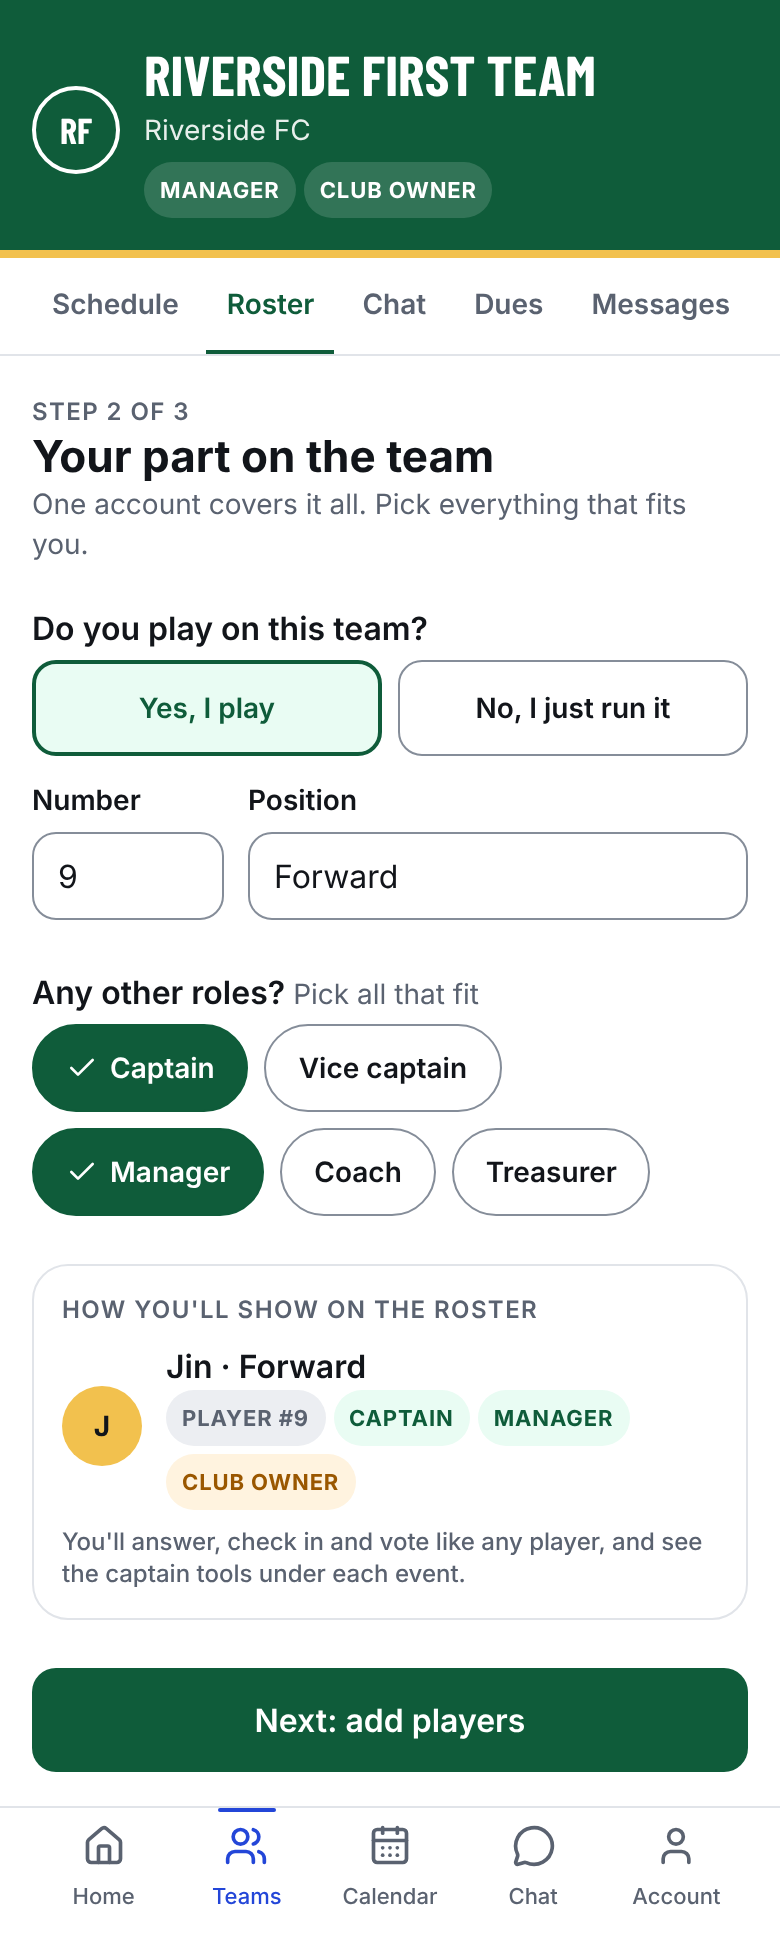
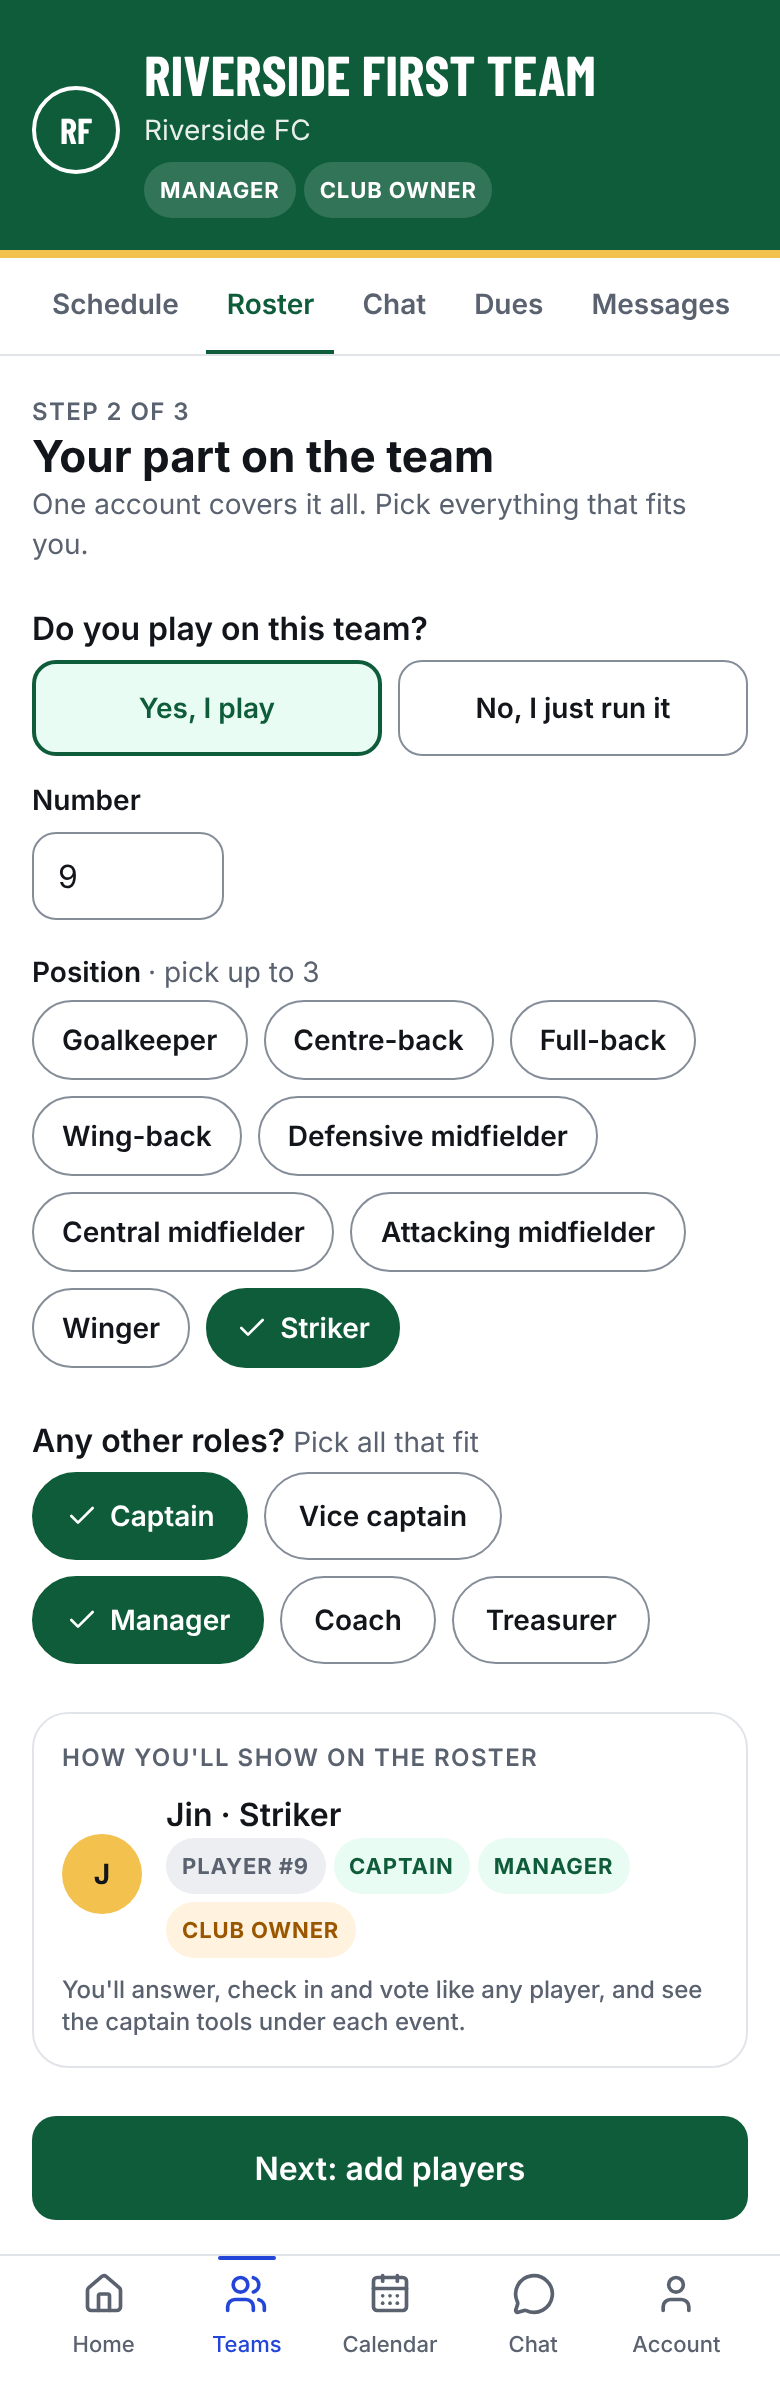
Players save their own number and positions; positions from a list; say why check-in is off
- Positions: pick up to 3 from your team's sport (soccer, football, basketball, hockey, cricket, baseball, volleyball, rugby, lacrosse) as chips, on "Your part on the team" and on a member's page. Other sports keep a text box; older typed positions stay as their own chip.
- Live save: a player without the roster permission could not save their number or position (RLS blocked it and the write failed silently). New set_my_player_details() lets anyone on the team change only is_player, jersey and position on their own row; roles still need manage_permissions.
- Check-in: when it's on but the event has no pinned place, players see why and that the captain can mark them; staff see a warning with a link to add or pin the place.
- Tests: positions and check-in messages (browser); existing tests pick a position chip.

Claude-Session: https://claude.ai/code/session_01ErGsB6M5fXQxgMj1xA9MPR

Changed region(s): [[0.0, 0.0, 1.0, 0.9897], [0.6154, 0.3402, 0.8615, 0.3711], [0.6462, 0.5876, 0.8, 0.6186]]

diff --git a/src/lib/data/live/accounts.ts b/src/lib/data/live/accounts.ts
@@ -105,3 +105,63 @@ export async function deleteAccount(confirmEmail: string): Promise<ActionResult>
   await sb.auth.signOut().catch(() => {});
   return { ok: true, data: undefined };
 }
+
+// ---------------------------------------------------------------------------
+// "Your part on the team" (Supabase). A player may change their own number, positions
+// and whether they play through set_my_player_details(); only someone who manages
+// permissions can change roles, which goes through the shared logic.
+// ---------------------------------------------------------------------------
+
+export async function setMyPart(
+  teamId: string,
+  input: { isPlayer: boolean; jersey?: string; position?: string; roles: string[] },
+): Promise<ActionResult<import("../types").RosterMember>> {
+  const { onLive } = await import("./run");
+  const shared = await import("../fake");
+  const { TEAM_ROLES } = await import("../types");
+  const { sb, user } = await signedInUser();
+  const { data: row } = await sb
+    .from("roster_members")
+    .select("id, roles, status")
+    .eq("team_id", teamId)
+    .eq("user_id", user.id)
+    .in("status", ["active", "inactive"])
+    .maybeSingle();
+  if (!row) return { ok: false, error: "You're not on this team." };
+  const roles = TEAM_ROLES.filter((r) => input.roles.includes(r));
+  const current = TEAM_ROLES.filter((r) => (row.roles ?? []).includes(r));
+  if (roles.join() !== current.join()) return onLive(shared.setMyPart)(teamId, input);
+
+  const jersey = input.isPlayer ? input.jersey?.trim() || null : null;
+  const position = input.isPlayer ? input.position?.trim() || null : null;
+  if (!input.isPlayer && !roles.length) return { ok: false, error: "Check the highlighted fields.", fieldErrors: { roles: "Pick at least one: you play, or a role on the team." } };
+  if (jersey && !/^\d{1,3}$/.test(jersey)) return { ok: false, error: "Check the highlighted fields.", fieldErrors: { jersey: "Use up to 3 digits." } };
+  if (jersey) {
+    const { data: same } = await sb.from("roster_members").select("id").eq("team_id", teamId).eq("jersey", jersey).eq("is_player", true).neq("status", "removed").neq("id", row.id).limit(1);
+    if (same?.length) return { ok: false, error: "Check the highlighted fields.", fieldErrors: { jersey: `Someone already wears ${jersey}.` } };
+  }
+  if (position && position.length > 80) return { ok: false, error: "Pick fewer positions." };
+  const { error } = await sb.rpc("set_my_player_details", { t: teamId, p_is_player: input.isPlayer, p_jersey: jersey ?? "", p_position: position ?? "" });
+  if (error) {
+    console.error("[setMyPart]", error.message);
+    return { ok: false, error: "Couldn't save that. Try again in a minute." };
+  }
+  const { data: r } = await sb.from("roster_members").select("*").eq("id", row.id).single();
+  if (!r) return { ok: false, error: "Saved, but couldn't read it back. Refresh the page." };
+  return {
+    ok: true,
+    data: {
+      id: r.id,
+      teamId: r.team_id,
+      userId: r.user_id,
+      invitedEmail: r.invited_email,
+      invitedName: null,
+      isPlayer: r.is_player,
+      roles: r.roles as import("../types").RosterMember["roles"],
+      jersey: r.jersey,
+      position: r.position,
+      permissions: r.permissions as import("../types").RosterMember["permissions"],
+      status: r.status as import("../types").RosterMember["status"],
+    },
+  };
+}

diff --git a/src/components/position-picker.tsx b/src/components/position-picker.tsx
@@ -1,0 +1,78 @@
+"use client";
+
+import { useState } from "react";
+import { Check } from "lucide-react";
+import { Input } from "@/components/ui";
+import { MAX_POSITIONS, joinPositions, positionsFor, splitPositions } from "@/lib/positions";
+
+/**
+ * Pick up to three positions from the team's sport, as tap-to-toggle chips. Anything saved
+ * earlier that isn't on the list (typed before the list existed) stays as its own chip.
+ * Sports without a list get a text box. Submits one hidden "position" field.
+ */
+export function PositionPicker({ sport, initial, onChange }: { sport: string; initial: string; onChange?: (value: string) => void }) {
+  const list = positionsFor(sport);
+  const [picked, setPicked] = useState<string[]>(splitPositions(initial));
+  const [text, setText] = useState(initial);
+
+  if (!list.length)
+    return (
+      <div className="grid gap-1.5">
+        <label htmlFor="position" className="text-sm font-semibold">
+          Position
+        </label>
+        <Input
+          id="position"
+          name="position"
+          maxLength={60}
+          value={text}
+          onChange={(e) => {
+            setText(e.target.value);
+            onChange?.(e.target.value);
+          }}
+          placeholder="Optional"
+        />
+      </div>
+    );
+
+  const extras = picked.filter((p) => !list.includes(p));
+  const options = [...list, ...extras];
+  const full = picked.length >= MAX_POSITIONS;
+  const toggle = (p: string) => {
+    const next = picked.includes(p) ? picked.filter((x) => x !== p) : full ? picked : [...picked, p];
+    // Keep them in the list's order so "Goalkeeper, Striker" reads the same for everyone.
+    const ordered = options.filter((o) => next.includes(o));
+    setPicked(ordered);
+    onChange?.(joinPositions(ordered));
+  };
+
+  return (
+    <fieldset className="grid gap-2">
+      <legend className="mb-1 text-sm font-semibold">
+        Position <span className="font-normal text-muted">· pick up to {MAX_POSITIONS}</span>
+      </legend>
+      <input type="hidden" name="position" value={joinPositions(picked)} />
+      <div className="flex flex-wrap gap-2">
+        {options.map((p) => {
+          const on = picked.includes(p);
+          return (
+            <button
+              key={p}
+              type="button"
+              aria-pressed={on}
+              disabled={!on && full}
+              onClick={() => toggle(p)}
+              className={`inline-flex min-h-10 items-center gap-1.5 rounded-pill border px-3.5 text-sm font-semibold disabled:opacity-40 focus-visible:outline-2 focus-visible:outline-offset-2 focus-visible:outline-focus ${
+                on ? "border-team bg-team text-on-team" : "border-border-input bg-bg"
+              }`}
+            >
+              {on && <Check aria-hidden className="size-4" />}
+              {p}
+            </button>
+          );
+        })}
+      </div>
+      {full && <p className="text-xs text-muted">That&apos;s {MAX_POSITIONS}. Tap one to swap it.</p>}
+    </fieldset>
+  );
+}

diff --git a/src/app/(app)/t/[teamId]/you/your-part-form.tsx b/src/app/(app)/t/[teamId]/you/your-part-form.tsx
@@ -5,6 +5,7 @@ import { Check } from "lucide-react";
 import { setMyPartAction, type FormState } from "@/app/actions";
 import { Avatar, Field, Input, buttonClass } from "@/components/ui";
 import { HatBadges } from "@/components/hats";
+import { PositionPicker } from "@/components/position-picker";
 import { TEAM_ROLES, ROLE_LABEL, hatLabels, type ClubRole, type TeamRole } from "@/lib/data/types";
 
 export function YourPartForm({
@@ -14,6 +15,7 @@ export function YourPartForm({
   name,
   clubRole,
   canChangeRoles,
+  sport,
   initial,
 }: {
   teamId: string;
@@ -22,6 +24,7 @@ export function YourPartForm({
   name: string;
   clubRole: ClubRole | null;
   canChangeRoles: boolean;
+  sport: string;
   initial: { isPlayer: boolean; jersey: string; position: string; roles: TeamRole[] };
 }) {
   const [state, action, pending] = useActionState<FormState, FormData>(setMyPartAction.bind(null, teamId, next), null);
@@ -58,13 +61,13 @@ export function YourPartForm({
           ))}
         </div>
         {plays && (
-          <div className="grid grid-cols-[96px_minmax(0,1fr)] gap-3">
-            <Field id="jersey" label="Number" error={fe.jersey}>
-              <Input id="jersey" name="jersey" inputMode="numeric" maxLength={3} value={jersey} onChange={(e) => setJersey(e.target.value)} error={fe.jersey} />
-            </Field>
-            <Field id="position" label="Position">
-              <Input id="position" name="position" maxLength={30} value={position} onChange={(e) => setPosition(e.target.value)} placeholder="Optional" />
-            </Field>
+          <div className="grid gap-4">
+            <div className="max-w-24">
+              <Field id="jersey" label="Number" error={fe.jersey}>
+                <Input id="jersey" name="jersey" inputMode="numeric" maxLength={3} value={jersey} onChange={(e) => setJersey(e.target.value)} error={fe.jersey} />
+              </Field>
+            </div>
+            <PositionPicker sport={sport} initial={initial.position} onChange={setPosition} />
           </div>
         )}
       </fieldset>

diff --git a/src/lib/positions.ts b/src/lib/positions.ts
@@ -1,0 +1,32 @@
+/*
+ * Playing positions by sport, for the position picker. A player can pick up to three;
+ * they're stored together in roster_members.position as "Goalkeeper, Centre-back".
+ * Sports not listed here (or "Other") get a free-text box instead.
+ */
+
+export const MAX_POSITIONS = 3;
+
+const LISTS: Record<string, string[]> = {
+  soccer: ["Goalkeeper", "Centre-back", "Full-back", "Wing-back", "Defensive midfielder", "Central midfielder", "Attacking midfielder", "Winger", "Striker"],
+  football: ["Quarterback", "Running back", "Wide receiver", "Tight end", "Offensive line", "Defensive line", "Linebacker", "Cornerback", "Safety", "Kicker", "Punter"],
+  basketball: ["Point guard", "Shooting guard", "Small forward", "Power forward", "Centre"],
+  hockey: ["Goalie", "Defence", "Centre", "Left wing", "Right wing"],
+  cricket: ["Batter", "Opening batter", "Wicketkeeper", "Fast bowler", "Spin bowler", "All-rounder"],
+  baseball: ["Pitcher", "Catcher", "First base", "Second base", "Third base", "Shortstop", "Left field", "Centre field", "Right field", "Designated hitter"],
+  volleyball: ["Setter", "Outside hitter", "Opposite", "Middle blocker", "Libero", "Defensive specialist"],
+  rugby: ["Prop", "Hooker", "Lock", "Flanker", "Number 8", "Scrum-half", "Fly-half", "Centre", "Wing", "Fullback"],
+  lacrosse: ["Goalie", "Defence", "Midfield", "Attack", "Face-off"],
+};
+
+export function positionsFor(sport: string | null | undefined): string[] {
+  return LISTS[(sport ?? "").trim().toLowerCase()] ?? [];
+}
+
+export function splitPositions(value: string | null | undefined): string[] {
+  return (value ?? "")
+    .split(/\s*[,/]\s*/)
+    .map((s) => s.trim())
+    .filter(Boolean);
+}
+
+export const joinPositions = (list: string[]) => list.join(", ");

diff --git a/src/app/(app)/t/[teamId]/roster/[memberId]/member-form.tsx b/src/app/(app)/t/[teamId]/roster/[memberId]/member-form.tsx
@@ -1,5 +1,6 @@
 "use client";
 
+import { PositionPicker } from "@/components/position-picker";
 import { useActionState, useState } from "react";
 import { Check } from "lucide-react";
 import { updateMemberAction, type FormState } from "@/app/actions";
@@ -18,11 +19,13 @@ export function MemberForm({
   teamId,
   memberId,
   isCreator,
+  sport,
   initial,
 }: {
   teamId: string;
   memberId: string;
   isCreator: boolean;
+  sport: string;
   initial: { isPlayer: boolean; jersey: string; position: string; roles: TeamRole[]; permissions: TeamPermission[] };
 }) {
   const [state, action, pending] = useActionState<FormState, FormData>(updateMemberAction.bind(null, teamId, memberId), null);
@@ -63,13 +66,13 @@ export function MemberForm({
           ))}
         </div>
         {plays && (
-          <div className="grid grid-cols-[96px_minmax(0,1fr)] gap-3">
-            <Field id="jersey" label="Number" error={fe.jersey}>
-              <Input id="jersey" name="jersey" inputMode="numeric" maxLength={3} defaultValue={initial.jersey} error={fe.jersey} />
-            </Field>
-            <Field id="position" label="Position">
-              <Input id="position" name="position" maxLength={30} defaultValue={initial.position} placeholder="Optional" />
-            </Field>
+          <div className="grid gap-4">
+            <div className="max-w-24">
+              <Field id="jersey" label="Number" error={fe.jersey}>
+                <Input id="jersey" name="jersey" inputMode="numeric" maxLength={3} defaultValue={initial.jersey} error={fe.jersey} />
+              </Field>
+            </div>
+            <PositionPicker sport={sport} initial={initial.position} />
           </div>
         )}
       </fieldset>

diff --git a/src/app/(app)/t/[teamId]/e/[eventId]/page.tsx b/src/app/(app)/t/[teamId]/e/[eventId]/page.tsx
@@ -132,6 +132,15 @@ export default async function EventPage({
 
       {checkIn && <CheckInCard eventId={e.id} tz={e.tz} {...checkIn} />}
 
+      {canEdit && team.settings.geoCheckinEnabled && !past && !cancelled && e.venue?.lat == null && (
+        <Banner tone="warning">
+          Players can&apos;t check in to this one: {e.venue ? `${e.venue.name} has no map pin` : "it has no place with a map pin"}.{" "}
+          <Link href={e.venue ? `/t/${teamId}/venues?edit=${e.venue.id}#venue-form` : `/t/${teamId}/e/${e.id}/edit`} className="font-semibold text-team-ink underline">
+            {e.venue ? "Pin it on the map" : "Add a place"}
+          </Link>
+        </Banner>
+      )}
+
       {ep.manager && !team.isStaff && (
         <Banner>You&apos;re running this one. The tools you were given are below.</Banner>
       )}

diff --git a/src/components/check-in.tsx b/src/components/check-in.tsx
@@ -49,7 +49,19 @@ export function CheckInCard({
         </div>
       </section>
     );
-  if (!venue?.pinned || state === "closed") return null;
+  if (state === "closed") return null;
+  if (!venue?.pinned)
+    return (
+      <section aria-labelledby="ci-h" className="grid gap-1 rounded-lg border border-border bg-surface p-4">
+        <h2 id="ci-h" className="font-semibold">
+          Check-in isn&apos;t available for this event
+        </h2>
+        <p className="text-sm text-muted">
+          {venue ? `${venue.name} doesn't have a map pin yet` : "This event doesn't have a place with a map pin"}, so the app can&apos;t tell when
+          you&apos;ve arrived. Your captain can mark you present instead.
+        </p>
+      </section>
+    );
 
   function go() {
     setMsg(null);

diff --git a/src/app/(app)/t/[teamId]/you/page.tsx b/src/app/(app)/t/[teamId]/you/page.tsx
@@ -34,6 +34,7 @@ export default async function YourPartPage({ params, searchParams }: { params: P
         name={user.firstName}
         clubRole={team.hats.clubRole}
         canChangeRoles={team.canManagePermissions}
+        sport={team.sport}
         initial={{
           // A brand-new team defaults to "I play and captain it": the usual case for an adult team.
           isPlayer: isNew ? true : team.me.isPlayer,

diff --git a/src/lib/supabase/database.types.ts b/src/lib/supabase/database.types.ts
@@ -2344,6 +2344,10 @@ export type Database = {
         Args: { p_key: string; p_kind: string; p_payload: Json; p_team: string }
         Returns: undefined
       }
+      set_my_player_details: {
+        Args: { p_is_player: boolean; p_jersey: string; p_position: string; t: string }
+        Returns: undefined
+      }
       tier_rank: { Args: { t: string }; Returns: number }
     }
     Enums: {

diff --git a/src/app/(app)/t/[teamId]/roster/[memberId]/page.tsx b/src/app/(app)/t/[teamId]/roster/[memberId]/page.tsx
@@ -37,6 +37,7 @@ export default async function MemberPage({ params }: { params: Promise<{ teamId:
         teamId={teamId}
         memberId={m.id}
         isCreator={m.isCreator}
+        sport={team.sport}
         initial={{ isPlayer: m.isPlayer, jersey: m.jersey ?? "", position: m.position ?? "", roles: m.roles, permissions: m.permissions }}
       />
     </div>

diff --git a/tests/positions_checkin.py b/tests/positions_checkin.py
@@ -1,0 +1,54 @@
+# Sample-data build: a player picks positions from the list and saves them; a player sees why
+# check-in isn't available when the event has no pinned place, and staff get a warning.
+import re
+import _waits  # noqa: F401
+from playwright.sync_api import sync_playwright, expect
+
+BASE = "http://localhost:3000"
+errors = []
+
+def login(p, who):
+    p.context.clear_cookies()
+    p.goto(f"{BASE}/login")
+    p.locator("form", has_text=who).first.get_by_role("button").click()
+    p.wait_for_url(f"{BASE}/")
+
+with sync_playwright() as pw:
+    b = pw.chromium.launch()
+    p = b.new_context(viewport={"width": 390, "height": 844}).new_page()
+    p.on("pageerror", lambda e: errors.append(str(e)))
+
+    # Rahul is a plain player on the Strikers.
+    login(p, "Rahul")
+    p.goto(f"{BASE}/t/t-strikers/you")
+    expect(p.get_by_text("pick up to 3")).to_be_visible()
+    print("seeded:", p.locator("button[aria-pressed=true]").all_inner_texts())
+    while p.locator("fieldset button[aria-pressed=true]").count():
+        p.locator("fieldset button[aria-pressed=true]").first.click()
+    for pos in ["Central midfielder", "Winger", "Striker"]:
+        p.get_by_role("button", name=pos, exact=True).click()
+    expect(p.get_by_role("button", name="Goalkeeper", exact=True)).to_be_disabled()
+    expect(p.get_by_text("Central midfielder, Winger, Striker")).to_be_visible()  # roster preview
+    p.fill("#jersey", "77")
+    p.get_by_role("button", name="Save").click()
+    p.wait_for_url(re.compile(r"/roster"))
+    p.goto(f"{BASE}/t/t-strikers/you")
+    expect(p.get_by_role("button", name="Winger", exact=True)).to_have_attribute("aria-pressed", "true")
+    expect(p.locator("#jersey")).to_have_value("77")
+
+    # Captain makes an event with no place; player sees the explanation, captain the warning.
+    login(p, "Priya")
+    p.goto(f"{BASE}/t/t-strikers/e/new")
+    p.fill("#opponent", "No Pin FC")
+    p.locator("input[name=startTime], #startTime").first.fill("22:00")
+    p.select_option("#venueId", "")
+    p.get_by_role("button", name=re.compile("^Add ")).click()
+    p.wait_for_url(re.compile(r"/e/[^/?]+\?created=1"))
+    ev = p.url.split("?")[0]
+    expect(p.get_by_text("Players can't check in to this one")).to_be_visible()
+    login(p, "Rahul")
+    p.goto(ev)
+    expect(p.get_by_text("Check-in isn't available for this event")).to_be_visible()
+    b.close()
+assert not errors, errors
+print("positions_checkin: all checks pass")

diff --git a/tests/live_core.py b/tests/live_core.py
@@ -85,7 +85,7 @@ with sync_playwright() as pw:
     c.fill("#name", "Riverside FC"); submit(c, lambda: c.click("text=Create club"), r"/teams/new\?club=")
     expect(c.get_by_text("Riverside FC is set up and you're its owner")).to_be_visible(); step("club saved; Jin is owner")
     c.fill("#name", "Riverside First Team"); submit(c, lambda: c.click("text=Create team"), r"/you\?new=1")
-    c.fill("#jersey", "9"); c.fill("#position", "Forward"); c.locator("label", has_text="Manager").click()
+    c.fill("#jersey", "9"); c.get_by_role("button", name="Striker", exact=True).click(); c.locator("label", has_text="Manager").click()
     submit(c, lambda: c.click("text=Next: add players"), r"/roster\?created=1")
     me = c.locator("li", has_text="(you)")
     for hat in ["Captain", "Manager", "Club owner"]: expect(me.get_by_text(hat, exact=True)).to_be_visible()
